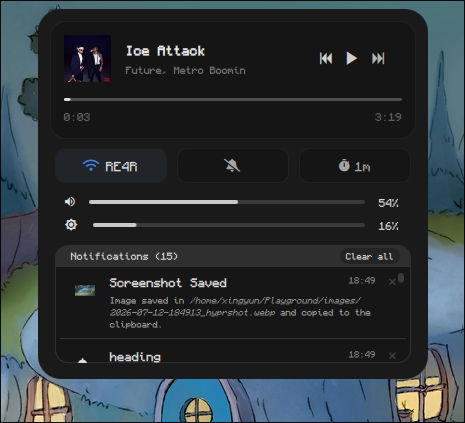
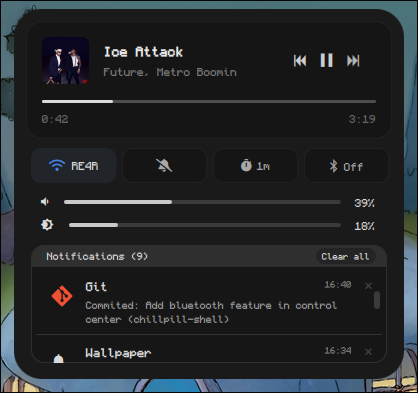
Update README, install.sh and screenshots for bluetooth feature

diff --git a/qml/CcButtons.qml b/qml/CcButtons.qml
@@ -54,7 +54,7 @@ RowLayout {
       Text {
         text: "\uf1eb" // wifi glyph
         color: WifiController.enabled ? "#4282e9" : root.buttonFgOff
-        font { family: Theme.nerdFontFamily; pixelSize: 14 }
+        font { family: Theme.nerdFontFamily; pixelSize: 12 }
       }
       Text {
         text: !WifiController.enabled ? "Off"
@@ -114,7 +114,7 @@ RowLayout {
       text: String.fromCodePoint(0xf1f6)
       color: notificationModule.dndEnabled ? "#fff9eb" : root.buttonFgOff
       anchors.centerIn: parent
-      font { family: Theme.nerdFontFamily; pixelSize: 14 }
+      font { family: Theme.nerdFontFamily; pixelSize: 13 }
     }
     HoverHandler { id: dndHover }
     MouseArea {

diff --git a/README.md b/README.md
@@ -2,7 +2,7 @@
 
 <div align="center">
 
-[![ChillPill-Shell 0.3.2](https://img.shields.io/badge/CPShell-0.3.2-blue.svg)](https://github.com/LUCKYS1NGHH/ChillPill-Shell)
+[![ChillPill-Shell 0.4.0](https://img.shields.io/badge/CPShell-0.4.0-blue.svg)](https://github.com/LUCKYS1NGHH/ChillPill-Shell)
 [![GitHub Stars](https://img.shields.io/github/stars/LUCKYS1NGHH/ChillPill-Shell?style=social)](https://github.com/LUCKYS1NGHH/ChillPill-Shell/stargazers)
 [![Quickshell 0.3.0+](https://img.shields.io/badge/Quickshell-0.3.0+-green.svg)](https://github.com/quickshell-mirror/quickshell)
 [![License: GPL v3](https://img.shields.io/badge/License-GPLv3-orange.svg)](https://www.gnu.org/licenses/gpl-3.0)
@@ -111,27 +111,40 @@ into your session at all times. It's not bound to any dotfiles.
 
 ## Features
 
-- Main Pill Bar                : Battery, volume, workspaces, network, clock
-- Control Center               : Media Player, Buttons (WiFi, Silent Notifs, Timer), Volume and Brightness Sliders, Notification Stack
-- Cliphist (Clipboard History) : Search, Clipboard images preview, Item index status, `Delete` key to delete any item
-- Mini Dashboard               : Profile Image, Username, Hostname, Uptime, Battery, Basic network info, Today bandwidth usage, Datetime, Weather, Calendar, Power buttons (lock, sleep, shutdown, reboot)
-- DBus Notification            : App icon (optional), summary, body (YES! you can ditch swaync/dunst fully now)
-- OSD                          : Battery, volume, brightness, timer
-- Wallpaper switcher           : A wallpaper switcher
+- **Main Pill Bar**                - Battery, volume, workspaces, network, clock
+- **Control Center**               - Media player, buttons (WiFi, Silent Notifs, Timer, Bluetooth), volume and brightness sliders, notification Stack
+- **Cliphist (Clipboard History)** - Search, clipboard image preview, item index status, `Delete` key to delete any item
+- **Mini Dashboard**               - Profile image, username, hostname, uptime, battery, basic network info, today's bandwidth usage, datetime, weather, calendar, power buttons (lock, sleep, shutdown, reboot)
+- **DBus Notification**            - App icon (optional), summary, body (YES! you can ditch swaync/dunst entirely now)
+- **OSD**                          - Battery, volume, brightness, timer
+- **Wallpaper switcher**           - A wallpaper switcher
 
 <details>
 <summary>Know more</summary>
 
 ---
 - Main pill bar width expands on hover
+
 - Audio (to mute/unmute) and workspaces (to switch) in the main pill bar are clickable.
+
 - Control center's media player progress bar is not only for status, it's usable to control the media you playing.
+
 - Control center has WiFi controller which has list of active networks and has password prompt. also timer minutes
   can be change by right click.
+
+- Control center has also Bluetooth controller which has list of active, pair & connected devices/networks (make sure service is running). then 3 cases to connect bluetooth:
+
+  - case 1: device wants a PIN or passkey typed in
+  - case 2: device just wants us to display a code
+  - case 3: device wants a yes/no confirmation of a shown passkey
+
 - Cliphist shows image previews from `~/.cache/quickshell/cliphist-imgs` by converting image binaries into real images and save there.
+
 - Notifications are able to show in slide animation (similar to iOS mute) while you playing video game or watching movie in full screen.
   also it can show custom app icon to show in notification, else it shows bell icon.
+
 - Your today's bandwidth status in mini dashboard is shown by [nusgmon](https://github.com/LUCKYS1NGHH/nusgmon) (i am the creator of it too).
+
 - Wallpaper switcher shows you the filename of the image on hover. uses `awww` in backend to update the wallpaper.
 ---
 </details>
@@ -209,7 +222,8 @@ into your session at all times. It's not bound to any dotfiles.
 - [inotify-tools](https://github.com/inotify-tools/inotify-tools)
 - [brightnessctl](https://github.com/Hummer12007/brightnessctl)
 - [wl-clipboard](https://github.com/bugaevc/wl-clipboard)
-- awww
+- [blueman](https://github.com/blueman-project/blueman)
+- [awww](https://codeberg.org/LGFae/awww)
 - Qt Multimedia (`qt6-multimedia` on Arch)
 
 > [!TIP]
